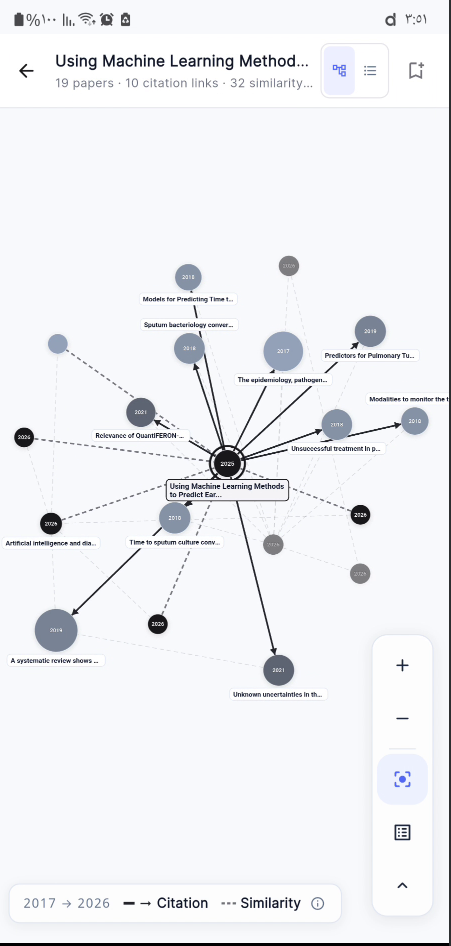
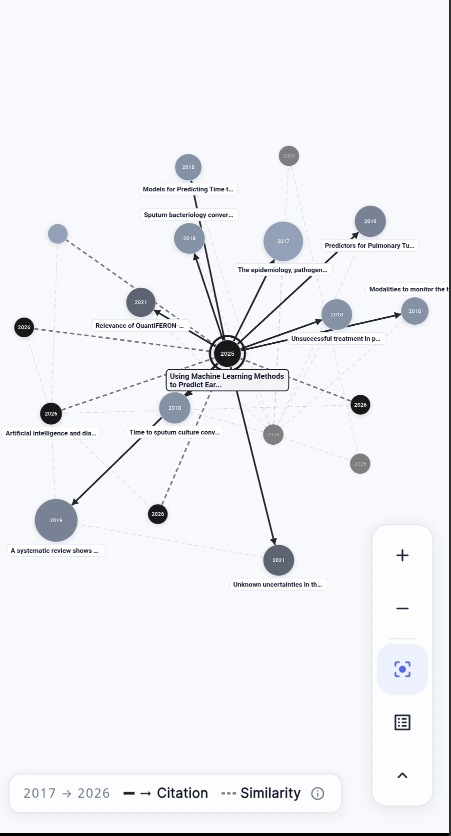
fix: mermaid syntax, crop mobile screenshot, adapt SVGs for dark mode

diff --git a/README.md b/README.md
@@ -115,13 +115,13 @@ Save the graph, add notes, export citations, monitor it for new work, and return
 
 ```mermaid
 flowchart LR
-    A[DOI, title, or link] --> B[Canonical identity]
-    B --> C[Candidate discovery]
-    C --> D[Evidence + ranking]
-    D --> E[Interactive graph]
-    E --> F[Library + notes]
-    E --> G[Research monitoring]
-    G --> H[New update + notification]
+    A["DOI, title, or link"] --> B["Canonical identity"]
+    B --> C["Candidate discovery"]
+    C --> D["Evidence + ranking"]
+    D --> E["Interactive graph"]
+    E --> F["Library + notes"]
+    E --> G["Research monitoring"]
+    G --> H["New update + notification"]
 ```
 
 ### The stack
